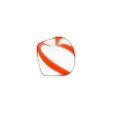
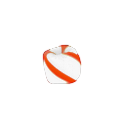
Update orderable items color

Changed region(s): [[0.292, 0.3186, 0.7434, 0.7434]]

diff --git a/contrib/digimiam/orders/src/store/orderStore.js b/contrib/digimiam/orders/src/store/orderStore.js
@@ -22,8 +22,8 @@ let store = new Vuex.Store({
       },
       potjevleesch: {
         price: 10,
-        img: require('@/assets/img/potlevlesch.png'),
-        imgCart: require('@/assets/img/potlevlesch.png'),
+        img: require('@/assets/img/potjevleesch.png'),
+        imgCart: require('@/assets/img/potjevleesch.png'),
         opacity: 1,
       },
       salade_flamande: {
